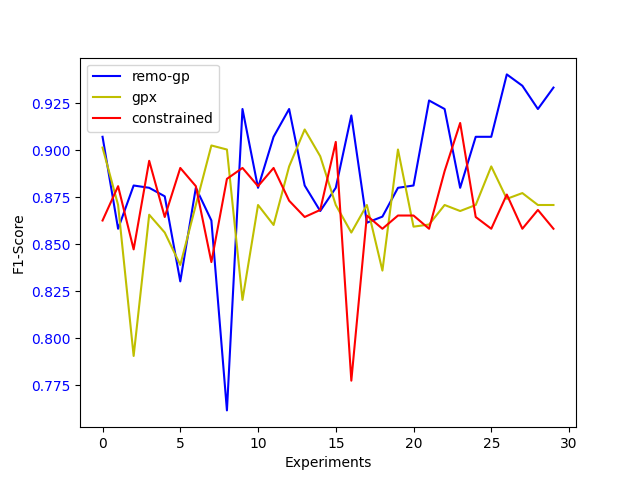
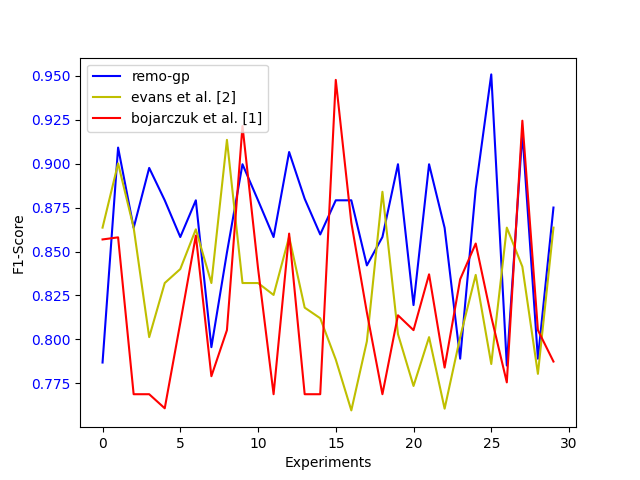
Adding GPX configuration

diff --git a/run.py b/run.py
@@ -49,7 +49,7 @@ def setUpGP(n_parameters: int, evaluate_function):
     pset.addPrimitive(protectedDiv, 2)
     pset.renameArguments(ARG0='x', ARG1='y', ARG2='z', ARG3='t')
 
-    creator.create("FitnessMulti", base.Fitness, weights=(1.0, -1.0, -1.0))
+    creator.create("FitnessMulti", base.Fitness, weights=(1.0, -1.0))
     creator.create("Individual", gp.PrimitiveTree, fitness=creator.FitnessMulti)
 
     toolbox = base.Toolbox()
@@ -93,11 +93,12 @@ def fitness_function(individual):
         function_result = int(func(*x[1]) > 0.5)
         y_pred.append(function_result)
 
+    y_pred_np = np.array(y_pred)
+    opaque_model_prediction_test_np = np.array(opaque_model_prediction_train)
     # avgTreeLength = individual.__len__() / split_points if split_points != 0 else 0
-    ari = 1 / (1 + math.exp(-(countTerminals * countPrimitive)))
-    complextTerminals = 1 / (1 + math.exp(-complexity))
+    rmse = (y_pred_np - opaque_model_prediction_test_np) * (y_pred_np - opaque_model_prediction_test_np)
 
-    return sklearn.metrics.f1_score(opaque_model_prediction_train, y_pred), ari, complextTerminals
+    return sklearn.metrics.f1_score(opaque_model_prediction_train, y_pred), np.sum(rmse)
 
 
 def getComplexityFactor(primitive):
@@ -159,10 +160,9 @@ def executeGeneticProgramming():
     hof = tools.HallOfFame(10)
     fscore_stats = tools.Statistics(lambda ind: ind.fitness.values[0])
     # avgTree_stats = tools.Statistics(lambda ind: ind.fitness.values[1])
-    ari_stats = tools.Statistics(lambda ind: ind.fitness.values[1])
-    complexTerminals_stats = tools.Statistics(lambda ind: ind.fitness.values[2])
-    mstats = tools.MultiStatistics(fscore_stats=fscore_stats, ari_stats=ari_stats,
-                                   complexTerminals_stats=complexTerminals_stats)
+    rmse_stats = tools.Statistics(lambda ind: ind.fitness.values[1])
+    # complexTerminals_stats = tools.Statistics(lambda ind: ind.fitness.values[2])
+    mstats = tools.MultiStatistics(fscore_stats=fscore_stats, rmse_stats=rmse_stats,)
     mstats.register("avg", numpy.mean)
     mstats.register("std", numpy.std)
     mstats.register("min", numpy.min)
@@ -221,14 +221,25 @@ def generateReport(n_experiments, best_pareto=None):
     fit_max = logbook.chapters["fscore_stats"].select("max")
 
     import matplotlib.pyplot as plt
-    fit_max_whats_inside = [0.8635875402792695, 0.9001029866117405, 0.8635875402792695, 0.8013300083125521, 0.8320855614973262, 0.8400392541707556, 0.8626198083067093, 0.8320855614973262, 0.9134808853118711, 0.8320855614973262, 0.8320855614973262, 0.8253119429590018, 0.8583690987124464, 0.8181011535048802, 0.8120603015075376, 0.7885714285714287, 0.7596717467760844, 0.7989179440937783, 0.8839662447257384, 0.8030467899891185, 0.7735644637053087, 0.8013300083125521, 0.760655737704918, 0.8013300083125521, 0.8367129135538954, 0.7860508953817154, 0.8635875402792695, 0.8413793103448276, 0.7804444444444445, 0.8635875402792695]
-    fit_max_const = [0.856868395773295, 0.8580576307363929, 0.7688734030197446, 0.7688734030197446, 0.7608695652173915, 0.8094262295081968, 0.8590604026845639, 0.779107725788901, 0.8053024026512013, 0.9213483146067416, 0.8405017921146953, 0.7688734030197446, 0.8601921024546425, 0.7688734030197446, 0.7688734030197446, 0.9475890985324948, 0.8664495114006515, 0.8153681963713981, 0.7688734030197446, 0.8137472283813747, 0.8053024026512013, 0.8370370370370371, 0.784, 0.8342361863488624, 0.8545454545454545, 0.8129370629370629, 0.775609756097561, 0.9243856332703213, 0.8053024026512013, 0.7874493927125505]
-    fit_max_gpx = []
+    fit_max_whats_inside = [0.8635875402792695, 0.9001029866117405, 0.8635875402792695, 0.8013300083125521,
+                            0.8320855614973262, 0.8400392541707556, 0.8626198083067093, 0.8320855614973262,
+                            0.9134808853118711, 0.8320855614973262, 0.8320855614973262, 0.8253119429590018,
+                            0.8583690987124464, 0.8181011535048802, 0.8120603015075376, 0.7885714285714287,
+                            0.7596717467760844, 0.7989179440937783, 0.8839662447257384, 0.8030467899891185,
+                            0.7735644637053087, 0.8013300083125521, 0.760655737704918, 0.8013300083125521,
+                            0.8367129135538954, 0.7860508953817154, 0.8635875402792695, 0.8413793103448276,
+                            0.7804444444444445, 0.8635875402792695]
+    fit_max_const = [0.856868395773295, 0.8580576307363929, 0.7688734030197446, 0.7688734030197446, 0.7608695652173915,
+                     0.8094262295081968, 0.8590604026845639, 0.779107725788901, 0.8053024026512013, 0.9213483146067416,
+                     0.8405017921146953, 0.7688734030197446, 0.8601921024546425, 0.7688734030197446, 0.7688734030197446,
+                     0.9475890985324948, 0.8664495114006515, 0.8153681963713981, 0.7688734030197446, 0.8137472283813747,
+                     0.8053024026512013, 0.8370370370370371, 0.784, 0.8342361863488624, 0.8545454545454545,
+                     0.8129370629370629, 0.775609756097561, 0.9243856332703213, 0.8053024026512013, 0.7874493927125505]
     fig, ax1 = plt.subplots()
     line1, = ax1.plot(range(0, n_experiments), fit_max, "b-", label="remo-gp")
-    line2, = ax1.plot(range(0, n_experiments), fit_max_whats_inside, "y-", label="[2]")
-    line3, = ax1.plot(range(0, n_experiments), fit_max_const, "r-", label="[1]")
-    line4, = ax1.plot(range(0, n_experiments), fit_max_gpx, "r-", label="[4]")
+    line2, = ax1.plot(range(0, n_experiments), fit_max_whats_inside, "y-", label="evans et al. [2]")
+    line3, = ax1.plot(range(0, n_experiments), fit_max_const, "r-", label="bojarczuk et al. [1]")
+    # line4, = ax1.plot(range(0, n_experiments), fit_max_gpx, "r-", label="[4]")
     ax1.set_xlabel("Experiments")
     ax1.set_ylabel("F1-Score")
     ax1.legend(handles=[line1, line2, line3])
@@ -246,6 +257,7 @@ def generateReport(n_experiments, best_pareto=None):
     }]
     df_logbook = pd.DataFrame(results_log)
     df_logbook.to_csv("pareto_results/" + dataset_name + "/results.csv")
+    fit_max = []
     # generateParetoCharts(accumulatedPareto)
     # generateTree(best_pareto)
 
@@ -322,10 +334,77 @@ def generateParetoCharts(paretos):
     # data_gpx_split = [0.9820137900379085, 0.8807970779778823, 0.5, 0.5, 0.9820137900379085, 0.8807970779778823, 0.5, 0.9999938558253978, 0.9820137900379085, 0.8807970779778823, 0.5, 0.8807970779778823, 0.5, 0.9820137900379085, 0.5, 0.9996646498695336, 0.8807970779778823, 0.5, 0.8807970779778823, 0.5, 0.9999546021312976, 0.8807970779778823, 0.5, 0.9975273768433653, 0.8807970779778823, 0.5, 0.8807970779778823, 0.5, 0.8807970779778823, 0.5, 0.8807970779778823, 0.5, 0.9820137900379085, 0.8807970779778823, 0.5, 0.9996646498695336, 0.9975273768433653, 0.8807970779778823, 0.5, 0.5, 0.8807970779778823, 0.5, 0.9820137900379085, 0.8807970779778823, 0.5, 0.8807970779778823, 0.5, 0.9820137900379085, 0.8807970779778823, 0.5, 0.9975273768433653, 0.8807970779778823, 0.5, 0.8807970779778823, 0.5, 0.8807970779778823, 0.5, 0.8807970779778823, 0.5, 0.5, 0.8807970779778823, 0.5, 0.9996646498695336, 0.9820137900379085, 0.5, 0.9975273768433653, 0.9820137900379085, 0.8807970779778823, 0.5, 0.8807970779778823, 0.5, 0.5]
     # data_const_fscore = [0.8625954198473282, 0.8409090909090909, 0.7871485943775101, 0.8808664259927798, 0.8582089552238805, 0.8472222222222222, 0.8156028368794326, 0.7871485943775101, 0.8943661971830986, 0.8652482269503546, 0.8582089552238805, 0.8644688644688645, 0.7871485943775101, 0.890566037735849, 0.5399239543726235, 0.8808664259927798, 0.8582089552238805, 0.6877828054298643, 0.8404669260700389, 0.7578125, 0.8847583643122677, 0.7871485943775101, 0.7578125, 0.890566037735849, 0.7871485943775101, 0.8808664259927798, 0.5399239543726235, 0.890566037735849, 0.8582089552238805, 0.8731343283582088, 0.7885304659498207, 0.7578125, 0.8644688644688645, 0.7871485943775101, 0.8682170542635659, 0.8582089552238805, 0.9044117647058824, 0.8808664259927798, 0.697508896797153, 0.7773584905660378, 0.697508896797153, 0.8652482269503546, 0.697508896797153, 0.8582089552238805, 0.7871485943775101, 0.8652482269503546, 0.6877828054298643, 0.8652482269503546, 0.697508896797153, 0.8582089552238805, 0.7871485943775101, 0.888888888888889, 0.8582089552238805, 0.6877828054298643, 0.9144981412639406, 0.7578125, 0.8644688644688645, 0.8582089552238805, 0.8582089552238805, 0.8764044943820224, 0.8582089552238805, 0.46715328467153283, 0.8582089552238805, 0.8682170542635659, 0.7578125, 0.8582089552238805, 0.7578125]
     # data_const_simplicity = [0.9895009751316033, 0.9259109423490272, 0.6236575784782976, 0.9259109423490272, 0.6236575784782976, 0.9895009751316033, 0.9259109423490272, 0.6236575784782976, 0.9985950204031521, 0.9259109423490272, 0.6236575784782976, 0.9259109423490272, 0.6236575784782976, 0.9259109423490272, 0.6236575784782976, 0.9985950204031521, 0.9259109423490272, 0.6236575784782976, 0.9895009751316033, 0.6236575784782976, 0.9895009751316033, 0.9259109423490272, 0.6236575784782976, 0.9259109423490272, 0.6236575784782976, 0.9259109423490272, 0.6236575784782976, 0.9259109423490272, 0.6236575784782976, 0.9895009751316033, 0.9259109423490272, 0.6236575784782976, 0.9259109423490272, 0.6236575784782976, 0.9259109423490272, 0.6236575784782976, 0.9985950204031521, 0.9259109423490272, 0.6236575784782976, 0.9259109423490272, 0.6236575784782976, 0.9259109423490272, 0.6236575784782976, 0.9259109423490272, 0.6236575784782976, 0.9259109423490272, 0.6236575784782976, 0.9259109423490272, 0.6236575784782976, 0.9259109423490272, 0.6236575784782976, 0.9895009751316033, 0.9259109423490272, 0.6236575784782976, 0.9895009751316033, 0.6236575784782976, 0.9259109423490272, 0.6236575784782976, 0.6236575784782976, 0.9895009751316033, 0.9259109423490272, 0.6236575784782976, 0.6236575784782976, 0.9259109423490272, 0.6236575784782976, 0.9259109423490272, 0.6236575784782976]data_gpx_fscore = [0.9014084507042253, 0.7392996108949418, 0.5145631067961166, 0.8708487084870847, 0.7905138339920948, 0.6940298507462687, 0.5479452054794519, 0.8656716417910448, 0.8549618320610687, 0.8487084870848708, 0.5479452054794519, 0.8561872909698995, 0.7905138339920948, 0.8389513108614232, 0.7905138339920948, 0.8708487084870847, 0.8285714285714286, 0.487603305785124, 0.9025270758122744, 0.8088235294117647, 0.9003690036900369, 0.8905109489051095, 0.5479452054794519, 0.8203389830508475, 0.7905138339920948, 0.5145631067961166, 0.8708487084870847, 0.8088235294117647, 0.8602150537634409, 0.7905138339920948, 0.8913857677902624, 0.5479452054794519, 0.9110320284697508, 0.8905109489051095, 0.8088235294117647, 0.896797153024911, 0.8075471698113209, 0.7950819672131149, 0.5882352941176471, 0.8708487084870847, 0.8561872909698995, 0.8088235294117647, 0.8708487084870847, 0.8487084870848708, 0.5479452054794519, 0.8359375000000001, 0.5882352941176471, 0.9003690036900369, 0.7905138339920948, 0.5427509293680297, 0.8593155893536122, 0.8088235294117647, 0.4913793103448276, 0.8604651162790699, 0.8088235294117647, 0.8708487084870847, 0.6846846846846847, 0.8676470588235294, 0.7905138339920948, 0.8708487084870847, 0.8913857677902624, 0.8088235294117647, 0.8741258741258742, 0.8659003831417625, 0.8088235294117647, 0.8771929824561403, 0.8708487084870847, 0.8636363636363635, 0.5427509293680297, 0.8708487084870847, 0.6846846846846847, 0.8708487084870847]
-    data_gpx_fscore = [0.8156424581005587, 0.8072916666666666, 0.67524115755627, 0.8105263157894738, 0.8033240997229917, 0.7278481012658228, 0.67524115755627, 0.8019801980198019, 0.6123778501628664, 0.7848837209302326, 0.7484662576687118, 0.67524115755627, 0.8106796116504853, 0.8019801980198019, 0.7957559681697612, 0.6123778501628664, 0.7933884297520661, 0.7849999999999999, 0.6204620462046204, 0.8167539267015707, 0.783068783068783, 0.67524115755627, 0.825986078886311, 0.6204620462046204, 0.8200589970501475, 0.67524115755627, 0.825986078886311, 0.67524115755627, 0.7616580310880828, 0.725552050473186, 0.67524115755627, 0.8200589970501475, 0.67524115755627, 0.825986078886311, 0.6470588235294118, 0.7861271676300579, 0.7772925764192139, 0.6204620462046204, 0.7878787878787878, 0.67524115755627, 0.825986078886311, 0.67524115755627, 0.8242074927953891, 0.8163265306122448, 0.8081395348837209, 0.67524115755627, 0.8157099697885196, 0.7957559681697612, 0.6138613861386139, 0.825986078886311, 0.6204620462046204, 0.8423772609819121, 0.7559055118110236, 0.67524115755627, 0.7772925764192139, 0.6470588235294118, 0.8048048048048047, 0.7772925764192139, 0.67524115755627, 0.8150289017341041, 0.8072916666666666, 0.67524115755627, 0.8091603053435115, 0.7926509186351706, 0.783068783068783, 0.67524115755627, 0.814404432132964, 0.7681159420289855, 0.6138613861386139, 0.7760416666666666, 0.6470588235294118, 0.8159203980099502, 0.7538940809968847, 0.6470588235294118, 0.8579088471849866, 0.782608695652174, 0.59672131147541, 0.7789473684210527, 0.7560321715817695, 0.755784061696658, 0.67524115755627, 0.8010075566750628, 0.67524115755627]
-    data_gpx_split = [0.9820137900379085, 0.8807970779778823, 0.5, 0.9996646498695336, 0.9975273768433653, 0.8807970779778823, 0.5, 0.8807970779778823, 0.5, 0.9820137900379085, 0.8807970779778823, 0.5, 0.9996646498695336, 0.9975273768433653, 0.8807970779778823, 0.5, 0.9820137900379085, 0.8807970779778823, 0.5, 0.9820137900379085, 0.8807970779778823, 0.5, 0.8807970779778823, 0.5, 0.8807970779778823, 0.5, 0.8807970779778823, 0.5, 0.9820137900379085, 0.8807970779778823, 0.5, 0.8807970779778823, 0.5, 0.8807970779778823, 0.5, 0.9820137900379085, 0.8807970779778823, 0.5, 0.8807970779778823, 0.5, 0.8807970779778823, 0.5, 0.9996646498695336, 0.9975273768433653, 0.8807970779778823, 0.5, 0.9820137900379085, 0.8807970779778823, 0.5, 0.8807970779778823, 0.5, 0.9820137900379085, 0.8807970779778823, 0.5, 0.8807970779778823, 0.5, 0.9975273768433653, 0.8807970779778823, 0.5, 0.9975273768433653, 0.8807970779778823, 0.5, 0.9975273768433653, 0.9820137900379085, 0.8807970779778823, 0.5, 0.9975273768433653, 0.8807970779778823, 0.5, 0.8807970779778823, 0.5, 0.9820137900379085, 0.8807970779778823, 0.5, 0.9975273768433653, 0.8807970779778823, 0.5, 0.9996646498695336, 0.9820137900379085, 0.8807970779778823, 0.5, 0.8807970779778823, 0.5]
-    data_const_fscore = [0.8118811881188118, 0.66875, 0.8721461187214611, 0.8146341463414634, 0.6325878594249201, 0.8781725888324873, 0.7952380952380953, 0.6439628482972136, 0.882494004796163, 0.8110403397027601, 0.66875, 0.8192219679633868, 0.8126649076517151, 0.8110403397027601, 0.66875, 0.8357487922705314, 0.66875, 0.8164251207729468, 0.8110403397027601, 0.6439628482972136, 0.8154269972451792, 0.8123249299719889, 0.8110403397027601, 0.66875, 0.8721461187214611, 0.66875, 0.8192219679633868, 0.66875, 0.8173913043478261, 0.6325878594249201, 0.8110403397027601, 0.66875, 0.8284313725490196, 0.6439628482972136, 0.8444444444444444, 0.8110403397027601, 0.8110403397027601, 0.6439628482972136, 0.8466819221967963, 0.7415730337078652, 0.66875, 0.8586666666666666, 0.8110403397027601, 0.8110403397027601, 0.6292834890965732, 0.8431876606683805, 0.8110403397027601, 0.66875, 0.8329297820823244, 0.66875, 0.8213457076566126, 0.8110403397027601, 0.8110403397027601, 0.8110403397027601, 0.6439628482972136, 0.8110403397027601, 0.66875, 0.8201058201058201, 0.8110403397027601, 0.66875, 0.8390243902439023, 0.8110403397027601, 0.66875, 0.8146341463414634, 0.66875, 0.8200000000000001, 0.8110403397027601, 0.66875, 0.8058968058968059, 0.6439628482972136, 0.8329297820823244, 0.6292834890965732, 0.8277404921700224, 0.8207792207792208, 0.7918781725888325, 0.6439628482972136, 0.8721461187214611, 0.6439628482972136, 0.8110403397027601, 0.66875, 0.8021978021978023, 0.7572254335260117, 0.66875]
-    data_const_simplicity = [0.9259109423490272, 0.6236575784782976, 0.9895009751316033, 0.9259109423490272, 0.6236575784782976, 0.9895009751316033, 0.9259109423490272, 0.6236575784782976, 0.9998134705161004, 0.9259109423490272, 0.6236575784782976, 0.9985950204031521, 0.9895009751316033, 0.9259109423490272, 0.6236575784782976, 0.9259109423490272, 0.6236575784782976, 0.9895009751316033, 0.9259109423490272, 0.6236575784782976, 0.9998134705161004, 0.9895009751316033, 0.9259109423490272, 0.6236575784782976, 0.9259109423490272, 0.6236575784782976, 0.9259109423490272, 0.6236575784782976, 0.9259109423490272, 0.6236575784782976, 0.9259109423490272, 0.6236575784782976, 0.9259109423490272, 0.6236575784782976, 0.9985950204031521, 0.9259109423490272, 0.9259109423490272, 0.6236575784782976, 0.9895009751316033, 0.9259109423490272, 0.6236575784782976, 0.9999999423206956, 0.9259109423490272, 0.9259109423490272, 0.6236575784782976, 0.9895009751316033, 0.9259109423490272, 0.6236575784782976, 0.9259109423490272, 0.6236575784782976, 0.9895009751316033, 0.9259109423490272, 0.9259109423490272, 0.9259109423490272, 0.6236575784782976, 0.9259109423490272, 0.6236575784782976, 0.9985950204031521, 0.9259109423490272, 0.6236575784782976, 0.9895009751316033, 0.9259109423490272, 0.6236575784782976, 0.9259109423490272, 0.6236575784782976, 0.9998134705161004, 0.9259109423490272, 0.6236575784782976, 0.9259109423490272, 0.6236575784782976, 0.9259109423490272, 0.6236575784782976, 0.9998134705161004, 0.9895009751316033, 0.9259109423490272, 0.6236575784782976, 0.9259109423490272, 0.6236575784782976, 0.9259109423490272, 0.6236575784782976, 0.9895009751316033, 0.9259109423490272, 0.6236575784782976]
+    data_gpx_fscore = [0.8156424581005587, 0.8072916666666666, 0.67524115755627, 0.8105263157894738, 0.8033240997229917,
+                       0.7278481012658228, 0.67524115755627, 0.8019801980198019, 0.6123778501628664, 0.7848837209302326,
+                       0.7484662576687118, 0.67524115755627, 0.8106796116504853, 0.8019801980198019, 0.7957559681697612,
+                       0.6123778501628664, 0.7933884297520661, 0.7849999999999999, 0.6204620462046204,
+                       0.8167539267015707, 0.783068783068783, 0.67524115755627, 0.825986078886311, 0.6204620462046204,
+                       0.8200589970501475, 0.67524115755627, 0.825986078886311, 0.67524115755627, 0.7616580310880828,
+                       0.725552050473186, 0.67524115755627, 0.8200589970501475, 0.67524115755627, 0.825986078886311,
+                       0.6470588235294118, 0.7861271676300579, 0.7772925764192139, 0.6204620462046204,
+                       0.7878787878787878, 0.67524115755627, 0.825986078886311, 0.67524115755627, 0.8242074927953891,
+                       0.8163265306122448, 0.8081395348837209, 0.67524115755627, 0.8157099697885196, 0.7957559681697612,
+                       0.6138613861386139, 0.825986078886311, 0.6204620462046204, 0.8423772609819121,
+                       0.7559055118110236, 0.67524115755627, 0.7772925764192139, 0.6470588235294118, 0.8048048048048047,
+                       0.7772925764192139, 0.67524115755627, 0.8150289017341041, 0.8072916666666666, 0.67524115755627,
+                       0.8091603053435115, 0.7926509186351706, 0.783068783068783, 0.67524115755627, 0.814404432132964,
+                       0.7681159420289855, 0.6138613861386139, 0.7760416666666666, 0.6470588235294118,
+                       0.8159203980099502, 0.7538940809968847, 0.6470588235294118, 0.8579088471849866,
+                       0.782608695652174, 0.59672131147541, 0.7789473684210527, 0.7560321715817695, 0.755784061696658,
+                       0.67524115755627, 0.8010075566750628, 0.67524115755627]
+    data_gpx_split = [0.9820137900379085, 0.8807970779778823, 0.5, 0.9996646498695336, 0.9975273768433653,
+                      0.8807970779778823, 0.5, 0.8807970779778823, 0.5, 0.9820137900379085, 0.8807970779778823, 0.5,
+                      0.9996646498695336, 0.9975273768433653, 0.8807970779778823, 0.5, 0.9820137900379085,
+                      0.8807970779778823, 0.5, 0.9820137900379085, 0.8807970779778823, 0.5, 0.8807970779778823, 0.5,
+                      0.8807970779778823, 0.5, 0.8807970779778823, 0.5, 0.9820137900379085, 0.8807970779778823, 0.5,
+                      0.8807970779778823, 0.5, 0.8807970779778823, 0.5, 0.9820137900379085, 0.8807970779778823, 0.5,
+                      0.8807970779778823, 0.5, 0.8807970779778823, 0.5, 0.9996646498695336, 0.9975273768433653,
+                      0.8807970779778823, 0.5, 0.9820137900379085, 0.8807970779778823, 0.5, 0.8807970779778823, 0.5,
+                      0.9820137900379085, 0.8807970779778823, 0.5, 0.8807970779778823, 0.5, 0.9975273768433653,
+                      0.8807970779778823, 0.5, 0.9975273768433653, 0.8807970779778823, 0.5, 0.9975273768433653,
+                      0.9820137900379085, 0.8807970779778823, 0.5, 0.9975273768433653, 0.8807970779778823, 0.5,
+                      0.8807970779778823, 0.5, 0.9820137900379085, 0.8807970779778823, 0.5, 0.9975273768433653,
+                      0.8807970779778823, 0.5, 0.9996646498695336, 0.9820137900379085, 0.8807970779778823, 0.5,
+                      0.8807970779778823, 0.5]
+    data_const_fscore = [0.8118811881188118, 0.66875, 0.8721461187214611, 0.8146341463414634, 0.6325878594249201,
+                         0.8781725888324873, 0.7952380952380953, 0.6439628482972136, 0.882494004796163,
+                         0.8110403397027601, 0.66875, 0.8192219679633868, 0.8126649076517151, 0.8110403397027601,
+                         0.66875, 0.8357487922705314, 0.66875, 0.8164251207729468, 0.8110403397027601,
+                         0.6439628482972136, 0.8154269972451792, 0.8123249299719889, 0.8110403397027601, 0.66875,
+                         0.8721461187214611, 0.66875, 0.8192219679633868, 0.66875, 0.8173913043478261,
+                         0.6325878594249201, 0.8110403397027601, 0.66875, 0.8284313725490196, 0.6439628482972136,
+                         0.8444444444444444, 0.8110403397027601, 0.8110403397027601, 0.6439628482972136,
+                         0.8466819221967963, 0.7415730337078652, 0.66875, 0.8586666666666666, 0.8110403397027601,
+                         0.8110403397027601, 0.6292834890965732, 0.8431876606683805, 0.8110403397027601, 0.66875,
+                         0.8329297820823244, 0.66875, 0.8213457076566126, 0.8110403397027601, 0.8110403397027601,
+                         0.8110403397027601, 0.6439628482972136, 0.8110403397027601, 0.66875, 0.8201058201058201,
+                         0.8110403397027601, 0.66875, 0.8390243902439023, 0.8110403397027601, 0.66875,
+                         0.8146341463414634, 0.66875, 0.8200000000000001, 0.8110403397027601, 0.66875,
+                         0.8058968058968059, 0.6439628482972136, 0.8329297820823244, 0.6292834890965732,
+                         0.8277404921700224, 0.8207792207792208, 0.7918781725888325, 0.6439628482972136,
+                         0.8721461187214611, 0.6439628482972136, 0.8110403397027601, 0.66875, 0.8021978021978023,
+                         0.7572254335260117, 0.66875]
+    data_const_simplicity = [0.9259109423490272, 0.6236575784782976, 0.9895009751316033, 0.9259109423490272,
+                             0.6236575784782976, 0.9895009751316033, 0.9259109423490272, 0.6236575784782976,
+                             0.9998134705161004, 0.9259109423490272, 0.6236575784782976, 0.9985950204031521,
+                             0.9895009751316033, 0.9259109423490272, 0.6236575784782976, 0.9259109423490272,
+                             0.6236575784782976, 0.9895009751316033, 0.9259109423490272, 0.6236575784782976,
+                             0.9998134705161004, 0.9895009751316033, 0.9259109423490272, 0.6236575784782976,
+                             0.9259109423490272, 0.6236575784782976, 0.9259109423490272, 0.6236575784782976,
+                             0.9259109423490272, 0.6236575784782976, 0.9259109423490272, 0.6236575784782976,
+                             0.9259109423490272, 0.6236575784782976, 0.9985950204031521, 0.9259109423490272,
+                             0.9259109423490272, 0.6236575784782976, 0.9895009751316033, 0.9259109423490272,
+                             0.6236575784782976, 0.9999999423206956, 0.9259109423490272, 0.9259109423490272,
+                             0.6236575784782976, 0.9895009751316033, 0.9259109423490272, 0.6236575784782976,
+                             0.9259109423490272, 0.6236575784782976, 0.9895009751316033, 0.9259109423490272,
+                             0.9259109423490272, 0.9259109423490272, 0.6236575784782976, 0.9259109423490272,
+                             0.6236575784782976, 0.9985950204031521, 0.9259109423490272, 0.6236575784782976,
+                             0.9895009751316033, 0.9259109423490272, 0.6236575784782976, 0.9259109423490272,
+                             0.6236575784782976, 0.9998134705161004, 0.9259109423490272, 0.6236575784782976,
+                             0.9259109423490272, 0.6236575784782976, 0.9259109423490272, 0.6236575784782976,
+                             0.9998134705161004, 0.9895009751316033, 0.9259109423490272, 0.6236575784782976,
+                             0.9259109423490272, 0.6236575784782976, 0.9259109423490272, 0.6236575784782976,
+                             0.9895009751316033, 0.9259109423490272, 0.6236575784782976]
     line1, = ax1.plot(data_gpx_split, data_gpx_fscore, 'ro', label='gpx')
     line2, = ax1.plot(data_const_simplicity, data_const_fscore, 'gs', label='constrained')
     line3, = ax1.plot(ariData, fscoreData, 'k+', label='ari-remo-gp')
@@ -434,8 +513,10 @@ def main(dataset):
         X_train, X_test, y_train, y_test = fetch_dataset.fetch_banknotes()
 
     # Execute blackbox algorithm
-    opaque_model_prediction_test, opaque_model_prediction_train, classifier, mlp_time = mlp.createInstance(X_train, X_test,
-                                                                                                           y_train, y_test)
+    opaque_model_prediction_test, opaque_model_prediction_train, classifier, mlp_time = mlp.createInstance(X_train,
+                                                                                                           X_test,
+                                                                                                           y_train,
+                                                                                                           y_test)
 
     generateReport(n_experiments=30)
 
